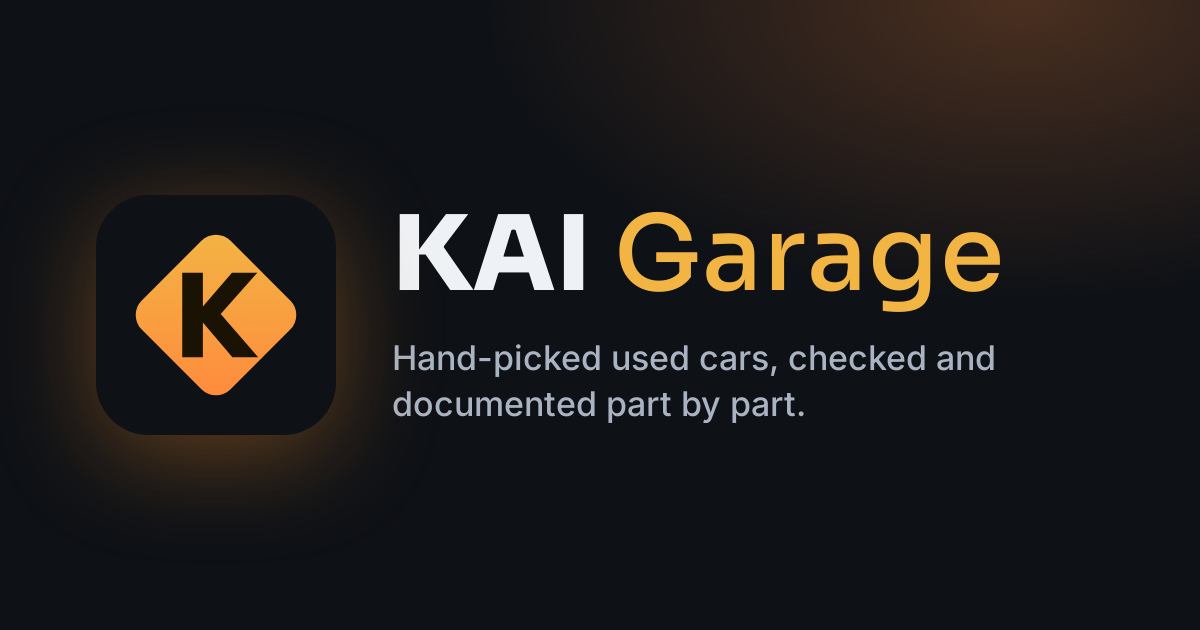
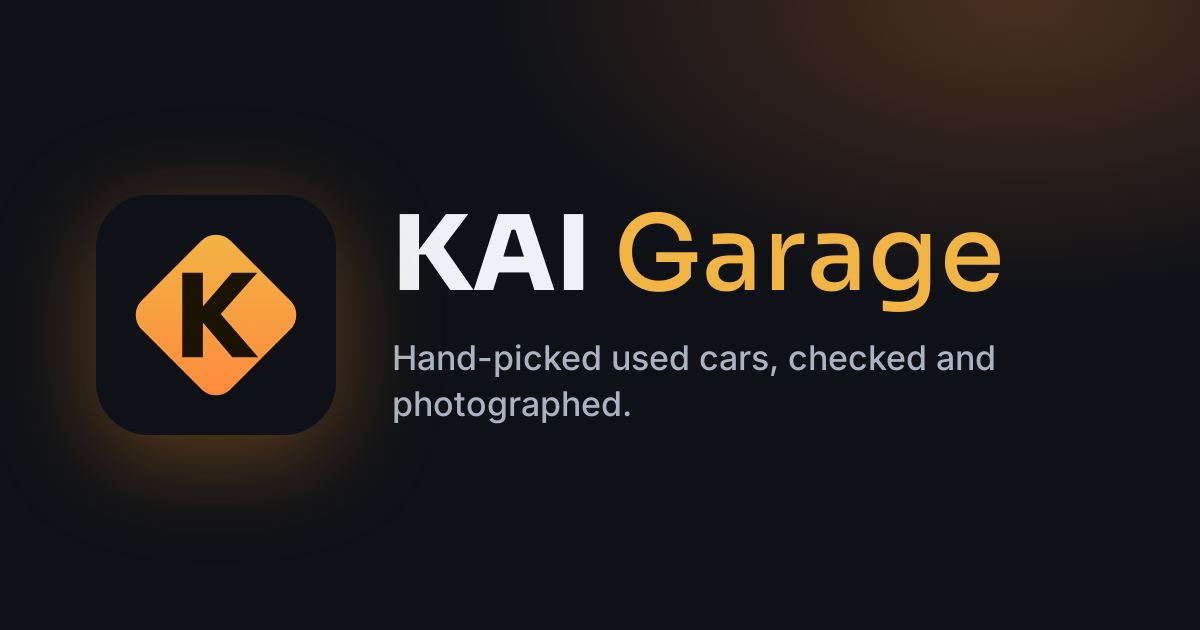
Remove car parts from the site: car page, cards, home, search and the parts page
The car_parts table and its data stay, so nothing is lost.

Changed region(s): [[0.3083, 0.6032, 0.6783, 0.6635]]

diff --git a/resources/views/home.blade.php b/resources/views/home.blade.php
@@ -7,7 +7,7 @@
         <div class="hero-copy">
             <p class="pill"><span class="live-dot"></span>{{ trans_choice(':count car in the garage right now|:count cars in the garage right now', $cars->count()) }}</p>
             <h1>{{ __('The best car offers') }} <span>{{ __('in town.') }}</span></h1>
-            <p class="hero-lede">{{ __('Hand-picked cars, photographed and documented part by part. Fair prices, no surprises: find your next car before someone else does.') }}</p>
+            <p class="hero-lede">{{ __('Hand-picked cars with real photos. Fair prices, no surprises: find your next car before someone else does.') }}</p>
             <x-search-panel :bounds="$bounds" :hero="true" :placeholder="__('What car are you looking for? e.g. BMW, Mercedes, Ljubljana')" />
             <dl class="hero-facts">
                 @if ($lowest !== null)
@@ -16,7 +16,6 @@
                 @if ($bounds['yearMin'] && $bounds['yearMax'] > $bounds['yearMin'])
                     <div class="fact-teal"><dt>{{ __('Years') }}</dt><dd>{{ $bounds['yearMin'] }}–{{ $bounds['yearMax'] }}</dd></div>
                 @endif
-                <div class="fact-blue"><dt>{{ __('Parts documented') }}</dt><dd>{{ $totalParts }}</dd></div>
                 @if ($interested > 0)
                     <div class="fact-violet"><dt>{{ __('Interested buyers') }}</dt><dd>{{ $interested }}</dd></div>
                 @endif
@@ -42,7 +41,6 @@
                                 <div><dt>{{ __('Year') }}</dt><dd>{{ $topPick->year ?: '—' }}</dd></div>
                                 <div><dt>{{ __('Price') }}</dt><dd>@price($topPick->price)</dd></div>
                                 <div><dt>{{ __('Location') }}</dt><dd>{{ $topPick->locationLabel() ?: '—' }}</dd></div>
-                                <div><dt>{{ __('Parts documented') }}</dt><dd>{{ $topPick->parts_count }}</dd></div>
                                 <div><dt>{{ __('People who looked') }}</dt><dd>{{ $topPick->people }}</dd></div>
                             </dl>
                             <a class="btn accent" href="{{ route('cars.show', $topPick) }}" draggable="false">{{ __('View this car') }} <span aria-hidden="true">&rarr;</span></a>
@@ -69,7 +67,6 @@
     @if ($cars->isNotEmpty())
         <section class="offer-row">
             @foreach ($highlights as $i => $car)
-                @php($parts = $car->parts->take(3))
                 <a @class(['offer', 'premium' => $car->isPremium()]) href="{{ route('cars.show', $car) }}" style="--i: {{ $i }}">
                     @if ($car->isPremium())
                         <span class="premium-ribbon"><span aria-hidden="true">&#9813;</span> {{ __('Premium') }}</span>
@@ -92,16 +89,6 @@
                     <div class="offer-body">
                         <h3>{{ $car->name }}@if ($car->year) <span class="offer-year">{{ $car->year }}</span>@endif</h3>
                         <p class="offer-desc">{{ $car->description ?: __('Checked, photographed and ready for a test drive.') }}</p>
-                        @if ($parts->isNotEmpty())
-                            <div class="chips">
-                                @foreach ($parts as $part)
-                                    <span class="chip">{{ $part->name }}</span>
-                                @endforeach
-                                @if ($car->parts_count > $parts->count())
-                                    <span class="chip more">+{{ $car->parts_count - $parts->count() }}</span>
-                                @endif
-                            </div>
-                        @endif
                         <span class="offer-go">{{ __('View this car') }} <span aria-hidden="true">&rarr;</span></span>
                     </div>
                 </a>
@@ -183,10 +170,10 @@
     </section>
 
     <section class="why">
-        <a class="why-item teal" href="{{ route('why', 'documented-parts') }}">
+        <a class="why-item teal" href="{{ route('how-buying') }}">
             <x-icon name="check" />
-            <h3>{{ __('Every part documented') }}</h3>
-            <p>{{ __("Steering, brakes, seats, keys: each car lists what it has, so you know exactly what you're buying.") }}</p>
+            <h3>{{ __('Safe, simple buying') }}</h3>
+            <p>{{ __('Pay a small part online and the car is reserved for you. The rest you pay the seller at the handover.') }}</p>
             <span class="why-more">{{ __('Learn more') }} &rarr;</span>
         </a>
         <a class="why-item blue" href="{{ route('why', 'real-photos') }}">

diff --git a/resources/views/cars/show.blade.php b/resources/views/cars/show.blade.php
@@ -44,36 +44,6 @@
                 @endif
             </div>
 
-            <div class="panel">
-                <h2>{{ __('Parts (:count)', ['count' => $car->parts->count()]) }}</h2>
-                <div class="table-scroll">
-                    <table class="parts">
-                        <thead>
-                            <tr><th>{{ __('Part') }}</th><th>{{ __('Description') }}</th><th>{{ __('Added') }}</th>@if ($canEdit)<th></th>@endif</tr>
-                        </thead>
-                        <tbody>
-                            @forelse ($car->parts as $part)
-                                <tr>
-                                    <td><strong>{{ $part->name }}</strong></td>
-                                    <td>{{ $part->description }}</td>
-                                    <td>{{ $part->created_at?->format('Y-m-d H:i') }}</td>
-                                    @if ($canEdit)
-                                        <td>
-                                            <form method="post" action="{{ route('cars.parts.destroy', [$car, $part]) }}">
-                                                @csrf @method('DELETE')
-                                                <button type="submit" class="btn danger small">{{ __('Remove') }}</button>
-                                            </form>
-                                        </td>
-                                    @endif
-                                </tr>
-                            @empty
-                                <tr><td colspan="4">{{ __('No parts yet') }}</td></tr>
-                            @endforelse
-                        </tbody>
-                    </table>
-                </div>
-            </div>
-
             @if ($canEdit)
                 <div class="panel">
                     <h2>{{ __('Photos (:count)', ['count' => $car->photos->count()]) }}</h2>
@@ -100,28 +70,6 @@
                     </form>
                 </div>
 
-                <div class="panel">
-                    <h2>{{ __('Add a part') }}</h2>
-                    <form method="post" action="{{ route('cars.parts.store', $car) }}">
-                        @csrf
-                        <div class="row">
-                            <div>
-                                <label for="part_name">{{ __('Part') }}</label>
-                                <input type="text" id="part_name" name="name" maxlength="100" list="part-options" required>
-                                <datalist id="part-options">
-                                    @foreach ($categories as $option)
-                                        <option value="{{ $option }}">
-                                    @endforeach
-                                </datalist>
-                            </div>
-                            <div>
-                                <label for="part_description">{{ __('Description') }}</label>
-                                <input type="text" id="part_description" name="description" maxlength="1000">
-                            </div>
-                            <button type="submit" class="btn">{{ __('Add part') }}</button>
-                        </div>
-                    </form>
-                </div>
             @endif
         </div>
 
@@ -324,7 +272,6 @@
                     <tr><th>{{ __('Price') }}</th><td>@price($car->price)@if ($car->activeDeal) <span class="hint">({{ __('deal: :price', ['price' => \App\Support\Money::price($car->activeDeal->deal_price)]) }})</span>@endif</td></tr>
                     <tr><th>{{ __('Location') }}</th><td>{!! $car->locationLabel() ? e($car->locationLabel()) : '<span class="hint">'.e(__('Not set')).'</span>' !!}</td></tr>
                     <tr><th>{{ __('Added') }}</th><td>{{ $car->created_at?->format('Y-m-d H:i') }}</td></tr>
-                    <tr><th>{{ __('Parts') }}</th><td>{{ $car->parts->count() }}</td></tr>
                     <tr><th>{{ __('Seen by') }}</th><td>{{ trans_choice(':count person|:count people', $stats['people']) }} <span class="hint">({{ trans_choice(':count view|:count views', $stats['total']) }})</span></td></tr>
                     <tr><th>{{ __('Watching now') }}</th><td><span class="live-dot"></span><span id="watching-now">{{ $stats['watching'] }}</span></td></tr>
                 </table>

diff --git a/tests/Unit/CarScopesTest.php b/tests/Unit/CarScopesTest.php
@@ -2,7 +2,6 @@
 
 use App\Models\Car;
 use App\Models\User;
-use Database\Seeders\PartCategorySeeder;
 
 it('orders listings premium first, then pushed, then the rest', function () {
     $regular = Car::factory()->create(['name' => 'Regular']);
@@ -14,28 +13,18 @@ it('orders listings premium first, then pushed, then the rest', function () {
         ->toBe(['Premium', 'Legacy', 'Pushed', 'Regular']);
 });
 
-it('searches name, description, location, country and parts, matching text literally', function () {
+it('searches name, description, location and country, matching text literally', function () {
     $bmw = Car::factory()->create(['name' => 'BMW 320d', 'description' => 'Full service history', 'location' => 'Celje', 'country' => 'Slovenia']);
     $audi = Car::factory()->create(['name' => 'Audi A4', 'description' => '100% original', 'location' => 'Zagreb', 'country' => 'Croatia']);
-    $bmw->parts()->create(['name' => 'Volan']);
 
     expect(Car::search('bmw')->pluck('id')->all())->toBe([$bmw->id])
         ->and(Car::search('service')->pluck('id')->all())->toBe([$bmw->id])
         ->and(Car::search('Zagreb')->pluck('id')->all())->toBe([$audi->id])
         ->and(Car::search('croatia')->pluck('id')->all())->toBe([$audi->id])
-        ->and(Car::search('volan')->pluck('id')->all())->toBe([$bmw->id])
         ->and(Car::search('100%')->pluck('id')->all())->toBe([$audi->id])
         ->and(Car::search('%')->pluck('id')->all())->toBe([$audi->id])     // only the car whose text contains "%"
         ->and(Car::search('_')->count())->toBe(0)
         ->and(Car::search('')->count())->toBe(2);
-});
-
-it('links a part to its category by name', function () {
-    $this->seed(PartCategorySeeder::class);
-    $car = Car::factory()->create();
-
-    expect($car->parts()->create(['name' => 'Volan'])->category?->name)->toBe('Volan')
-        ->and($car->parts()->create(['name' => 'Števec'])->part_category_id)->toBeNull();
 });
 
 it('takes seller contact from the profile, or the legacy fields for unowned cars', function () {

diff --git a/tests/Feature/CarManagementTest.php b/tests/Feature/CarManagementTest.php
@@ -3,7 +3,6 @@
 use App\Models\Car;
 use App\Models\CarLog;
 use App\Models\User;
-use Database\Seeders\PartCategorySeeder;
 use Illuminate\Http\UploadedFile;
 use Illuminate\Support\Facades\Storage;
 
@@ -70,7 +69,6 @@ it('lets only the seller change a car', function () {
     $this->actingAs($other)->put(route('cars.update', $car), carData(['name' => 'Hacked']))->assertForbidden();
     $this->actingAs($other)->delete(route('cars.destroy', $car))->assertForbidden();
     $this->actingAs($other)->post(route('cars.boost', $car))->assertForbidden();
-    $this->actingAs($other)->post(route('cars.parts.store', $car), ['name' => 'Volan'])->assertForbidden();
     $this->actingAs($other)->post(route('cars.photos.store', $car), ['photos' => [UploadedFile::fake()->image('a.jpg')]])->assertForbidden();
     expect($car->fresh()->name)->toBe('Original');
 
@@ -98,21 +96,6 @@ it('soft deletes a car and logs it', function () {
         ->and(Car::withTrashed()->find($car->id))->not->toBeNull()
         ->and(CarLog::where('car_id', $car->id)->where('action', 'delete')->exists())->toBeTrue();
     $this->get(route('cars.show', $car))->assertNotFound();
-});
-
-it('adds parts linked to their category and removes them', function () {
-    $this->seed(PartCategorySeeder::class);
-    $owner = User::factory()->create();
-    $car = Car::factory()->for($owner)->create();
-
-    $this->actingAs($owner)->post(route('cars.parts.store', $car), ['name' => 'Bremza', 'description' => 'New pads']);
-    $part = $car->parts()->first();
-    expect($part->category->name)->toBe('Bremza');
-
-    $other = Car::factory()->for($owner)->create();
-    $this->actingAs($owner)->delete(route('cars.parts.destroy', [$other, $part]))->assertNotFound();   // part belongs to another car
-    $this->actingAs($owner)->delete(route('cars.parts.destroy', [$car, $part]))->assertRedirect();
-    expect($car->parts()->count())->toBe(0);
 });
 
 it('sends a push forward to the checkout, but not for a premium seller\'s car', function () {

diff --git a/routes/web.php b/routes/web.php
@@ -7,7 +7,6 @@ use App\Http\Controllers\CarBoostController;
 use App\Http\Controllers\CarController;
 use App\Http\Controllers\CarDealController;
 use App\Http\Controllers\CarInquiryController;
-use App\Http\Controllers\CarPartController;
 use App\Http\Controllers\CarPhotoController;
 use App\Http\Controllers\CarSaleController;
 use App\Http\Controllers\CarWatchController;
@@ -37,8 +36,6 @@ Route::middleware('auth')->group(function () {
 
     Route::post('/cars/{car}/photos', [CarPhotoController::class, 'store'])->name('cars.photos.store')->can('update', 'car');
     Route::delete('/cars/{car}/photos/{photo}', [CarPhotoController::class, 'destroy'])->name('cars.photos.destroy')->can('update', 'car')->scopeBindings();
-    Route::post('/cars/{car}/parts', [CarPartController::class, 'store'])->name('cars.parts.store')->can('update', 'car');
-    Route::delete('/cars/{car}/parts/{part}', [CarPartController::class, 'destroy'])->name('cars.parts.destroy')->can('update', 'car')->scopeBindings();
     Route::post('/cars/{car}/boost', CarBoostController::class)->name('cars.boost')->can('update', 'car');
     Route::post('/cars/{car}/deal', [CarDealController::class, 'store'])->name('cars.deal.store')->can('runDeal', 'car');
     Route::get('/cars/{car}/sold', [CarSaleController::class, 'soldForm'])->name('cars.sold.create');
@@ -96,6 +93,7 @@ Route::get('/contact', [PageController::class, 'contact'])->name('contact');
 Route::view('/privacy', 'pages.privacy')->name('privacy');
 Route::view('/cookies', 'pages.cookies')->name('cookies');
 Route::get('/how-buying-works', [PageController::class, 'howBuying'])->name('how-buying');
+Route::redirect('/why/documented-parts', '/how-buying-works', 301);   // the parts page was removed
 Route::get('/why/{page}', [PageController::class, 'why'])->name('why')->whereIn('page', PageController::WHY_PAGES);
 
 Route::get('/language/{locale}', LanguageController::class)->name('language');

diff --git a/resources/views/components/car-card.blade.php b/resources/views/components/car-card.blade.php
@@ -1,8 +1,6 @@
 @props(['car', 'i' => 0, 'wished' => false, 'wishlist' => false])
 @php
     $link = route('cars.show', $car);
-    $parts = $car->parts;
-    $shown = $parts->take(4);
 @endphp
 <article @class(['car-card', 'has-deal' => $car->activeDeal, 'premium' => $car->isPremium(), 'boosted' => ! $car->isPremium() && $car->isBoosted(), 'wish-card' => $wishlist])
          style="--i: {{ $i }}" data-href="{{ $link }}" @if ($wishlist) data-remove-on-unwish @endif>
@@ -62,17 +60,6 @@
         @else
             <p class="card-desc empty-desc">{{ __('No description yet.') }}</p>
         @endif
-        <div class="chips">
-            @foreach ($shown as $part)
-                <span class="chip">{{ $part->name }}</span>
-            @endforeach
-            @if ($parts->count() > $shown->count())
-                <span class="chip more">{{ __('+:count more', ['count' => $parts->count() - $shown->count()]) }}</span>
-            @endif
-            @if ($parts->isEmpty())
-                <span class="chip more">{{ __('No parts yet') }}</span>
-            @endif
-        </div>
         @unless ($wishlist)
             <button type="button" class="views-toggle" data-url="{{ route('cars.view-stats', $car) }}" aria-expanded="false">
                 <x-icon name="eye" />
@@ -87,7 +74,7 @@
         @if ($car->activeDeal)
             <span class="deal-ends">{{ __('Deal ends :date', ['date' => $car->activeDeal->ends_at->format('Y-m-d')]) }}</span>
         @endif
-        <span class="id-tag">#{{ $car->id }} &middot; {{ trans_choice(':count part|:count parts', $parts->count()) }}</span>
+        <span class="id-tag">#{{ $car->id }}</span>
         <a class="btn details" href="{{ $link }}">{{ __('Details') }}</a>
     </div>
 </article>

diff --git a/resources/views/pages/privacy.blade.php b/resources/views/pages/privacy.blade.php
@@ -2,7 +2,7 @@
     $mail = '<a href="'.e(company_mailto()).'">'.e(config('company.email')).'</a>';
     $rows = [
         [__('Account'), __('Name, email, phone, location, country and password (stored only as a one-way hash).'), __('To run your account, show your listings and let buyers reach you.'), __('Contract'), __('Until your account is deleted.')],
-        [__('Car listings'), __('Car details, price, description, photos and parts.'), __('To publish your car on the site.'), __('Contract'), __('While the car is listed. Deleted listings are hidden from everyone; we erase them for good on request.')],
+        [__('Car listings'), __('Car details, price, description and photos.'), __('To publish your car on the site.'), __('Contract'), __('While the car is listed. Deleted listings are hidden from everyone; we erase them for good on request.')],
         [__('Messages to sellers'), __('Your name, email, phone and message.'), __('To pass your question on to the seller.'), __('Your request (steps before a contract)'), __('As long as the listing exists, or until you ask us to delete them.')],
         [__('Purchases and sales'), __('Buyer, seller, car, price and the commission.'), __('To reserve the car, put buyer and seller in touch and charge the commission.'), __('Contract and legal obligation'), __('10 years, as tax and accounting law requires.')],
         [__('Payments and subscriptions'), __('Amount, payment method, status and the payment provider\'s reference. Never your card or PayPal details.'), __('To take payments, renew subscriptions until you cancel them, and refund.'), __('Contract and legal obligation'), __('10 years, as tax and accounting law requires.')],

diff --git a/app/Http/Controllers/CarController.php b/app/Http/Controllers/CarController.php
@@ -7,7 +7,6 @@ use App\Models\Car;
 use App\Models\CarInquiry;
 use App\Models\CarLog;
 use App\Models\CarSale;
-use App\Models\PartCategory;
 use App\Models\WishlistItem;
 use App\Services\Alerts;
 use App\Services\PhotoStore;
@@ -50,7 +49,7 @@ class CarController extends Controller
             ->forSale()
             ->withPlacement()
             ->withPeopleCount()
-            ->with(['coverPhoto', 'parts:id,car_id,name', 'activeDeal', 'activeSale'])
+            ->with(['coverPhoto', 'activeDeal', 'activeSale'])
             ->tap(fn ($q) => $search->apply($q))
             ->tap(fn ($q) => $search->order($q))
             ->get();
@@ -97,7 +96,7 @@ class CarController extends Controller
 
     public function show(Car $car, ViewTracker $tracker): View
     {
-        $car = Car::withPlacement()->with(['user', 'photos', 'parts', 'activeDeal', 'activeSale.buyer'])->findOrFail($car->id);
+        $car = Car::withPlacement()->with(['user', 'photos', 'activeDeal', 'activeSale.buyer'])->findOrFail($car->id);
 
         // a visit counts as a view, the reload after saving or uploading doesn't
         if (! session()->has('status')) {
@@ -115,7 +114,6 @@ class CarController extends Controller
             'contacted' => CarInquiry::where('visitor_id', Visitor::id())->where('car_id', $car->id)->exists(),
             'contact' => $car->sellerContact(),
             'stats' => $tracker->stats($car),
-            'categories' => PartCategory::orderBy('id')->pluck('name'),
         ]);
     }
 

diff --git a/app/Http/Controllers/PageController.php b/app/Http/Controllers/PageController.php
@@ -3,16 +3,15 @@
 namespace App\Http\Controllers;
 
 use App\Models\Car;
-use App\Models\CarPart;
 use App\Models\CarPhoto;
 use App\Models\CarSale;
 use Illuminate\Support\Facades\DB;
 use Illuminate\View\View;
 
-// Information pages: contact, and the three "why buy here" pages from the home page
+// Information pages: contact, and the "why buy here" pages from the home page
 class PageController extends Controller
 {
-    public const WHY_PAGES = ['documented-parts', 'real-photos', 'live-interest'];
+    public const WHY_PAGES = ['real-photos', 'live-interest'];
 
     public function contact(): View
     {
@@ -57,13 +56,6 @@ class PageController extends Controller
     public function why(string $page): View
     {
         $data = match ($page) {
-            'documented-parts' => [
-                'parts' => CarPart::whereHas('car')->count(),
-                'cars' => Car::forSale()->count(),
-                'categories' => DB::table('car_parts')->join('cars', 'cars.id', '=', 'car_parts.car_id')->whereNull('cars.deleted_at')
-                    ->select('car_parts.name', DB::raw('COUNT(*) AS n'))->groupBy('car_parts.name')->orderByDesc('n')->limit(8)->get(),
-                'example' => Car::forSale()->withCount('parts')->with(['parts', 'coverPhoto'])->orderByDesc('parts_count')->first(),
-            ],
             'real-photos' => [
                 'photos' => CarPhoto::whereHas('car')->count(),
                 'cars' => Car::forSale()->count(),

diff --git a/app/Services/Assistant.php b/app/Services/Assistant.php
@@ -123,7 +123,7 @@ TXT;
                 'links' => [[__('Premium'), route('premium.index')]]];
         }
         if ($has('sell', 'prodaj', 'prodat', 'list a car', 'objav', 'verkauf', 'vendre', 'vender', 'verkop', 'add car', 'dodaj')) {
-            return ['reply' => __('Listing a car is free: create an account, press "Add car", add photos, parts and the price. When it sells through the site, :rate% of the price goes to KAI Garage.', ['rate' => (int) config('pricing.commission_rate')]),
+            return ['reply' => __('Listing a car is free: create an account, press "Add car", add photos and the price. When it sells through the site, :rate% of the price goes to KAI Garage.', ['rate' => (int) config('pricing.commission_rate')]),
                 'links' => [[__('Add car'), route('cars.create')], [__('How buying works'), route('how-buying')]]];
         }
         if ($has('contact', 'kontakt', 'phone', 'telefon', 'email', 'e-mail', 'address', 'naslov', 'hours', 'odprt', 'open', 'where', 'kje', 'adresse', 'horaire', 'direccion', 'morada')) {

diff --git a/app/Http/Controllers/HomeController.php b/app/Http/Controllers/HomeController.php
@@ -16,8 +16,7 @@ class HomeController extends Controller
             ->forSale()
             ->withPlacement()
             ->withPeopleCount()
-            ->withCount('parts')
-            ->with(['coverPhoto', 'activeDeal', 'activeSale', 'parts' => fn ($q) => $q->select('id', 'car_id', 'name')])
+            ->with(['coverPhoto', 'activeDeal', 'activeSale'])
             ->orderBy('cars.id')
             ->get();
 
@@ -59,7 +58,6 @@ class HomeController extends Controller
             'topLabel' => $watched ? __('Most watched right now') : __('Top pick of the week'),
             'lowest' => $priced->first()?->price,
             'bounds' => CarSearch::bounds(),
-            'totalParts' => $cars->sum('parts_count'),
             // distinct people across all listed cars (one person looking at three cars is one person)
             'interested' => (int) DB::table('car_views')->join('cars', 'cars.id', '=', 'car_views.car_id')
                 ->whereNull('cars.deleted_at')->distinct()->count('car_views.visitor_id'),

diff --git a/tests/Feature/BrowsingTest.php b/tests/Feature/BrowsingTest.php
@@ -66,10 +66,11 @@ it('shows premium cars as home page highlights, filled up to three', function ()
 
 it('serves the information pages', function () {
     Car::factory()->create();
-    foreach (['/contact', '/why/documented-parts', '/why/real-photos', '/why/live-interest', '/premium', '/most-watched', '/wishlist', '/login', '/register', '/forgot-password'] as $url) {
+    foreach (['/contact', '/why/real-photos', '/why/live-interest', '/premium', '/most-watched', '/wishlist', '/login', '/register', '/forgot-password'] as $url) {
         $this->get($url)->assertOk();
     }
     $this->get('/why/nope')->assertNotFound();
+    $this->get('/why/documented-parts')->assertRedirect('/how-buying-works');   // the parts page was removed
     $this->get('/contact')->assertSee('tel:+38640123456', false)->assertSee('mailto:kaigarage.info@gmail.com', false);
 });
 
